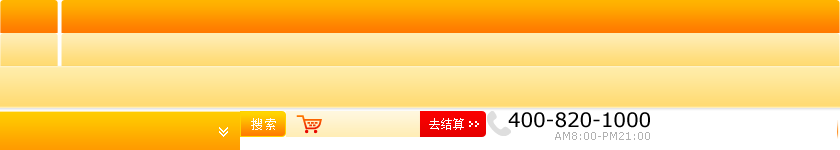
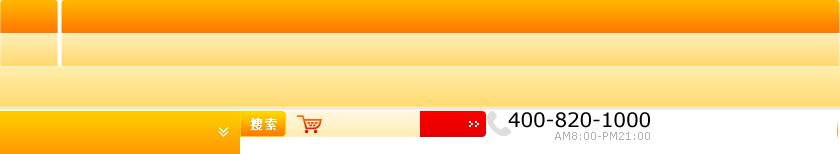
网站头部样式

diff --git a/website/css/base.css b/website/css/base.css
@@ -1,4 +1,4 @@
-body {font: 12px/1.5 tahoma, arial, sans-serif; }
+body {font: 12px/1.5 "Microsoft YaHei", tahoma, arial, sans-serif; }
 
 /*font*/
 h1 {font-size: 16px;}
@@ -90,59 +90,63 @@ input {border: 0 none; vertical-align: middle;}
 .toolbar .toolbar-nav .my-content li a {padding-right: 0;}
 
 /*header*/
-.header {height:94px; position: relative;}
+.header .nav ,.menu ,.header .nav a,.header .nav .current,.header .nav  b,.menu .search .btn-search,.menu .shopcart ,.category .category-hd {background: url("../images/bg_header.png") no-repeat 0 0;}
+.header {height:94px; position: relative; }
 .header .logo {float: left;margin-top:8px;}
 .header .logo a {display: block; width:146px; height: 78px; background: url(../images/logo_header.gif) no-repeat 0 0;}
-.header .nav {float: right; margin-top:62px; width:840px;height:32px;background: url("../images/bg_header.png") no-repeat 0 0; }
+.header .nav {float: right; margin-top:62px; width:840px;height:32px;background-position: 0 0; }
 .header .nav ul {line-height: 32px;}
-.header .nav ul a {text-decoration: none;}
-.header .nav ul li {float: left; _display: inline; position: relative;}
-.header .nav ul li a {display: block; width: 95px; height: 32px; text-align: center; color: #fff; font-size: 13px; font-weight: 700;}
-.header .nav ul li .current, .header .nav ul li:hover {background-image: url("../images/bg_nav.gif"); background-position: -157px -35px; color: #ff7800;}
-.header .nav ul li.home {margin-right: 3px;}
-.header .nav ul li.home a {width: 58px;}
-.header .nav ul li.home .current, .header .nav ul li.home:hover {background-position: 0 -35px;}
-.header .nav ul li.first .current, .header .nav ul li.first:hover {background-position: -61px -35px;}
-.header .nav ul li.last a {width: 97px;}
-.header .nav ul li.last .current, .header .nav ul li.last:hover {background-position: -441px -35px;}
-.header .hotline {position: absolute; right: 0; top: 2px; width: 184px; height: 42px; background: url("../images/banner_hotline.gif") no-repeat 0 0;}
-.header .qq-online {position: absolute; right: 0; top: 38px;}
-.menu {width: 100%; height: 45px; background: url(../images/bg_header.png) repeat-x 0 -66px;}
+.header .nav li {float: left; margin-right:1px;position: relative;}
+.header .nav a {display:inline-block; width:90px;height:32px; text-align: center; color: #fff; font:700 13px/32px "Microsoft YaHei";background-position:right -115px;}
+.header .nav a:hover,.header .nav .current {background-position:-100px -33px;text-decoration: none; color: #ff7800;}
+.header .nav .nav-first a:hover,.header .nav .nav-first .current {background-position: -61px -33px;}
+.header .nav .nav-home a {padding:0;width: 60px;}
+.header .nav .nav-home a:hover,.header .nav .nav-home .current{background-position: 0 -33px;}
+.header .icon-hot,.header .icon-new,.header .icon-flash{ display: block;position: absolute; left:0 ;top: -25px; width: 79px;height: 34px; z-index: 999;background: url("../images/wing.gif") no-repeat scroll 0 0 transparent; }
+.header .icon-new{ left:20px ;top: -5px; width: 21px;height: 14px; background-image: url("../images/new.gif"); }
+.header .icon-flash{ left:10px ;top: -15px; width: 58px;height: 35px;background-image: url("../images/flash_sales/star.gif"); }
+
+.header .hotline {position: absolute; right: 110px; top: 18px; width: 184px; height: 42px; background: url("../images/banner_hotline.gif") no-repeat 0 0;}
+.header .qq-online {position: absolute; right: 0; top:18px;}
+
+/*menu*/
+.menu {width: 100%; height: 45px; background-repeat:repeat-x;background-position: 0 -66px;}
 .menu .wrapper {padding-top: 8px;}
-.menu .search {float: left; _display: inline; padding-left: 250px; width: 512px;}
-.menu .search .search-input {border: #ff7800 1px solid; width: 206px;}
-.menu .search .btn-search {padding-left: 3px; height: 26px; line-height: 26px; background-position: -5px -2px; color: #fff; font-weight: 700; letter-spacing: 2px;}
-.menu .search .search-bd {float: left; _display: inline;}
-.menu .search .hot-keywords {float: left; _display: inline; padding-left: 10px; height: 26px; line-height: 26px; color: #e60000; width: 240px;}
-.menu .search .hot-keywords a {margin-left: 5px; color: #e60000;}
-.menu .shopcart {float: right; position: relative; z-index: 10; padding-left: 40px; width: 170px; height: 30px; line-height: 28px; background: url("../images/bg_shopcart.gif") no-repeat right 0;}
+.menu .search {float: left;padding-left: 260px; width: 525px;}
+.menu .search .search-input {border:1px solid  #ffd100;height:20px; width: 206px;}
+.menu .search .btn-search {width:45px;height:26px;background-position:-241px -111px;color: #fff; letter-spacing: 2px;font: 700 12px/26px "Microsoft YaHei"; text-indent: -9999px;cursor: pointer;}
+.menu .search .search-bd {float: left; }
+.menu .search .hot-keywords {float: left; padding-left: 10px; height: 26px; line-height: 26px; color: #ff7800; width: 240px;}
+.menu .search .hot-keywords a {margin-left: 5px; color: #ff7800;}
+.menu .search .hot-keywords a:hover {color: #e60000;}
+.menu .shopcart {float: right; position: relative; z-index: 10; padding-left: 40px; width: 160px; height: 26px; line-height: 26px; background-position: -286px -111px;}
 .menu .shopcart a {margin-left:5px;color: #e60000; overflow: hidden; zoom: 1;}
 .menu .shopcart em {padding: 0 4px 0 2px; font-style: normal; }
-.menu .shopcart .balance {float: right; _display: inline; display: block; width: 80px; height: 28px;}
-.menu .shopcart .cart-list {position: absolute; right: 3px; top: 28px; border: 2px #f90 solid; padding: 0; background-color: #ffedb5; color: #878787;}
+.menu .shopcart .checkOut {padding-left:14px;width: 60px; height: 26px;color: #fff;font-weight:700;text-decoration: none;}
+.menu .shopcart .cart-list {position: absolute; right: 0; top: 26px; border: 2px #f90 solid; padding: 0; background-color: #ffedb5; color: #878787;}
 .menu .shopcart .cart-list a {color: #878787;}
 .menu .shopcart .cart-list a:hover {color: #e60000;}
-.menu .shopcart .cart-list dl {width: 300px; padding: 5px; border-bottom: 1px dotted #ccc; overflow: hidden; zoom: 1; background: #fff;}
-.menu .shopcart .cart-list dl dt {float: left; _display: inline;}
-.menu .shopcart .cart-list dl dd {float: left; _display: inline;}
+.menu .shopcart .cart-list dl {width: 300px; padding: 5px; border-bottom: 1px dotted #e0e0e0; overflow: hidden; zoom: 1; background: #fff;}
+.menu .shopcart .cart-list dl dt {float: left;}
+.menu .shopcart .cart-list dl dd {float: left;}
 .menu .shopcart .cart-list dl dd.name {width: 180px;}
-.menu .shopcart .cart-list dl dd.action {float: right; _display: inline; color: #e60000; line-height: 1.6;}
+.menu .shopcart .cart-list dl dd.action {float: right; color: #e60000; line-height: 1.6;}
 .menu .shopcart .cart-list dl dd.action span {padding-right: 2px;}
 .menu .shopcart .cart-list dl dd.action .ride {color: #878787;}
 .menu .shopcart .cart-list .amount {text-align: right; padding: 5px; overflow: hidden; zoom: 1; width: 300px;}
 .menu .shopcart .cart-list .amount span {color: #e60000; font-weight: 700;}
-.menu .shopcart .cart-list .amount .btn_m {margin: 0 5px; display: inline; float: right;}
+.menu .shopcart .cart-list .amount .btn_m {float: right;margin: 0 5px; }
 .menu .shopcart .cart-list .amount a {color: #fff; height: auto;}
 .menu .shopcart .cart-list .amount a:hover {color: #ff9;}
 
 /*category*/
-.category {float: left; display: inline; margin-top: -38px; position: relative; z-index: 900;}
-.category .category-hd {width: 240px; height: 36px; background: url("../images/category/category_hd.gif") no-repeat scroll 0 0 transparent; font-size: 14px; line-height: 36px; text-align: center;}
+.category {float: left; display: inline; margin-top: -45px; position: relative; z-index: 900;}
+.category .category-hd {width: 240px; height: 42px; background-position:0 -112px; background-color:#ff7800;font-size: 14px; line-height: 38px; }
 .category .category-hd h2 {font-weight: 700;}
-.category .category-hd h2 a {display: block; width: 240px; height: 36px; color: #ff7800; text-decoration: none;}
-.category .category-bd {position:absolute;top:36px;left:0;z-index:910; padding-top: 5px; border: #ffdd9b 1px solid; border-top: 0 none; width: 238px; height: 943px; background: #fffbe1;}
+.category .category-hd h2 a {display: block;padding-left:46px; color: #fff; text-decoration: none;}
+.category .category-bd {position:absolute;top:42px;left:0;z-index:910; padding-top: 5px; border: #ffdd9b 1px solid; border-top: 0 none; width: 238px; height: 943px; background: #fffbe1;}
 .category .search-quick {position: relative; z-index: 3; height: 30px; cursor: pointer; background: #ffab24 url("../images/category/arrow.gif") no-repeat -6px 2px;}
-.category .search-quick .search-title {color: #fff; font: 800 14px/30px "Microsoft YaHei", "SimHei";}
+.category .search-quick .search-title {color: #fff; font: 800 14px/30px "Microsoft YaHei";}
 .category .search-quick .search-title a {margin-left: 15px; font-size: 12px; color: #fff;}
 .category .search-quick .search-title strong {margin-left: 15px; padding-left: 30px; background: url("../images/category/icon_search.gif") no-repeat 0 -5px;}
 .category .search-quick .search-area {position: absolute; top: 0; left: 238px; z-index: 31; border: 2px #ff7800 solid; padding: 0 10px; width: 210px; background-color: #fff; color: #878787;}
@@ -151,7 +155,7 @@ input {border: 0 none; vertical-align: middle;}
 .category .search-quick .search-area .search-list .field {float: right; _display: inline; width: 180px; line-height: 20px; padding-bottom: 5px; text-align: center;}
 .category .search-quick .search-area .search-list label {float: left; _display: inline; width: 40px;}
 .category .search-quick .search-area .search-list select {float: right; _display: inline; width: 128px;}
-.category .search-quick .search-area .btn-quick {float: right; _display: inline; margin-top: 5px; width: 90px; height: 22px; background: url("../images/category/btn_quick.jpg") no-repeat 0 0; cursor: pointer;}
+.category .search-quick .search-area .btn-quick {float: right;  margin-top: 5px; width: 90px; height: 22px; background: url("../images/category/btn_quick.jpg") no-repeat 0 0; cursor: pointer;}
 .category .item {float: left; _display: inline; position: relative; z-index: 920; margin: 0 2px; width: 234px; display: inline; border-bottom: #fec9a1 1px solid;}
 .category .item a {color: #000;}
 .category .item a:hover {color: #ff7800;}

diff --git a/website/flash_sales.html b/website/flash_sales.html
@@ -51,12 +51,14 @@
     </div>
     <div class="nav">
         <ul>
-            <li class="home"><a href="#" class="current">首页</a></li>
-            <li class="first"><a href="#" target="_blank">准妈妈豪礼</a><span class="icon-hot"></span></li>
-            <li><a href="#" target="_blank">孕妈新生儿</a><span class="icon-new"></span></li>
-            <li><a href="#" target="_blank">会员专享</a></li>
-            <li><a href="#" target="_blank">清仓甩卖</a></li>
-            <li class="last"><a href="#" target="_blank">推荐品牌</a></li>
+            <li class="nav-home"><a href="#" >首页</a></li>
+            <li class="nav-first nav-mamagift"><a href="#" target="_blank">准妈妈豪礼</a><span class="icon-hot"></span></li>
+            <li class="nav-flashSales"><a href="#" target="_blank" class="current">闪购</a><span class="icon-flash"></span></li>
+            <li class="nav-phland"><a href="#" target="_blank">丽婴房馆</a></li>
+            <li class="nav-baby"><a href="#" target="_blank">孕妈新生儿</a><span class="icon-new"></span></li>
+            <li class="nav-vip"><a href="#" target="_blank">会员专享</a></li>
+            <li class="nav-clearance"><a href="#" target="_blank">清仓甩卖</a></li>
+            <li class="nav-last nav-brand"><a href="#" target="_blank">推荐品牌</a></li>
         </ul>
     </div>
     <div class="hotline">
@@ -66,8 +68,8 @@
         <script charset="utf-8" type="text/javascript"
                 src="http://static.b.qq.com/account/bizqq/js/wpa.js?wty=1&type=1&kfuin=4008201000&ws=www.muyingzhijia.com&title=%E5%9C%A8%E7%BA%BF%E5%AE%A2%E6%9C%8D&btn1=%E4%BC%81%E4%B8%9AQQ%E4%BA%A4%E8%B0%88&fsty=0&fposX=0&fposY=1&csty=7&tx=1&aty=0&a=&key=%01hPa%036SnRd%03eSbR%3B%03c%040TmR%3CTg%01o%5C%3A%0Ao%5C3QfPfSo"></script>
         <!-- WPA Button END --></div>
-</div><!--header end-->
-
+</div>
+<!--header end-->
 <div class="menu">
     <div class="wrapper">
         <div id="topSearch" class="search">
@@ -76,7 +78,7 @@
                     <label for="txSearchCondition" class="hide">搜索</label><input type="text" name="txSearchCondition"
                                                                                  id="txSearchCondition"
                                                                                  class="text-input search-input"/><input
-                        type="button" id="btnSearch" class="btn_m btn_m_r btn-search" value="搜索"/>
+                        type="button" id="btnSearch" class="btn-search" value="搜索"/>
                 </form>
             </div>
             <div class="hot-keywords">
@@ -85,7 +87,7 @@
         </div>
 
         <div class="shopcart">
-            <span id="cartInfo" class="fl"><a href="">购物车<em id="saleQty" class="fb">600</em>件</a></span>
+            <span id="cartInfo" ><a href="">购物车<em id="saleQty" class="fb">600</em>件</a><a href="http://www.muyingzhijia.com/CheckOut/ShoppingCart.aspx" class="checkOut">去结算&nbsp;</a></span>
 
             <div id="cartList" class="hide cart-list">
                 <dl>
@@ -94,7 +96,6 @@
                     <dd class="name"><a href="">喜多倍护润肤霜60G</a></dd>
                     <dd class="action"><p><span class="rmb">¥</span><span class="price">14.50</span><span
                             class="ride">x</span>1</p>
-
                         <p><a onclick="javascript:DeleteShopCart(5067077)" href="javascript:void(0);">[删除]</a></p></dd>
                 </dl>
                 <dl>
@@ -107,15 +108,13 @@
                         <p><a onclick="javascript:DeleteShopCart(5067077)" href="javascript:void(0);">[删除]</a></p></dd>
                 </dl>
                 <div class="amount">
-                    共<span id="cartNum">2</span>件商品，总计：<span id="cartAmount">¥29.00</span><span class="btn_m btn_m_r"><a
-                        title="去购物车结算" href="">立即结算</a></span>
+                    共<span id="cartNum">2</span>件商品，总计：<span id="cartAmount">¥29.00</span><span class="btn_m btn_m_r"><a href="" id="j_balance" title="去购物车结算" >立即结算</a></span>
                 </div>
             </div>
-            <a href="#" class="balance"><span class="hide">去结算</span></a>
         </div>
     </div>
-</div><!--menu end-->
-
+</div>
+<!--menu end-->
 <div class="wrapper">
     <div id="category-container" class="category">
         <div class="category-hd">

diff --git a/website/index.html b/website/index.html
@@ -57,12 +57,14 @@
     </div>
     <div class="nav">
         <ul>
-            <li class="home"><a href="#" class="current">首页</a></li>
-            <li class="first"><a href="#" target="_blank">准妈妈豪礼</a><span class="icon-hot"></span></li>
-            <li><a href="#" target="_blank">孕妈新生儿</a><span class="icon-new"></span></li>
-            <li><a href="#" target="_blank">会员专享</a></li>
-            <li><a href="#" target="_blank">清仓甩卖</a></li>
-            <li class="last"><a href="#" target="_blank">推荐品牌</a></li>
+            <li class="nav-home"><a href="#" >首页</a></li>
+            <li class="nav-first nav-mamagift"><a href="#" target="_blank">准妈妈豪礼</a><span class="icon-hot"></span></li>
+            <li class="nav-flashSales"><a href="#" target="_blank" class="current">闪购</a><span class="icon-flash"></span></li>
+            <li class="nav-phland"><a href="#" target="_blank">丽婴房馆</a></li>
+            <li class="nav-baby"><a href="#" target="_blank">孕妈新生儿</a><span class="icon-new"></span></li>
+            <li class="nav-vip"><a href="#" target="_blank">会员专享</a></li>
+            <li class="nav-clearance"><a href="#" target="_blank">清仓甩卖</a></li>
+            <li class="nav-last nav-brand"><a href="#" target="_blank">推荐品牌</a></li>
         </ul>
     </div>
     <div class="hotline">
@@ -72,8 +74,8 @@
         <script charset="utf-8" type="text/javascript"
                 src="http://static.b.qq.com/account/bizqq/js/wpa.js?wty=1&type=1&kfuin=4008201000&ws=www.muyingzhijia.com&title=%E5%9C%A8%E7%BA%BF%E5%AE%A2%E6%9C%8D&btn1=%E4%BC%81%E4%B8%9AQQ%E4%BA%A4%E8%B0%88&fsty=0&fposX=0&fposY=1&csty=7&tx=1&aty=0&a=&key=%01hPa%036SnRd%03eSbR%3B%03c%040TmR%3CTg%01o%5C%3A%0Ao%5C3QfPfSo"></script>
         <!-- WPA Button END --></div>
-</div><!--header end-->
-
+</div>
+<!--header end-->
 <div class="menu">
     <div class="wrapper">
         <div id="topSearch" class="search">
@@ -82,7 +84,7 @@
                     <label for="txSearchCondition" class="hide">搜索</label><input type="text" name="txSearchCondition"
                                                                                  id="txSearchCondition"
                                                                                  class="text-input search-input"/><input
-                        type="button" id="btnSearch" class="btn_m btn_m_r btn-search" value="搜索"/>
+                        type="button" id="btnSearch" class="btn-search" value="搜索"/>
                 </form>
             </div>
             <div class="hot-keywords">
@@ -91,7 +93,7 @@
         </div>
 
         <div class="shopcart">
-            <span id="cartInfo" class="fl"><a href="">购物车<em id="saleQty" class="fb">600</em>件</a></span>
+            <span id="cartInfo" ><a href="">购物车<em id="saleQty" class="fb">600</em>件</a><a href="http://www.muyingzhijia.com/CheckOut/ShoppingCart.aspx" class="checkOut">去结算&nbsp;</a></span>
 
             <div id="cartList" class="hide cart-list">
                 <dl>
@@ -100,7 +102,6 @@
                     <dd class="name"><a href="">喜多倍护润肤霜60G</a></dd>
                     <dd class="action"><p><span class="rmb">¥</span><span class="price">14.50</span><span
                             class="ride">x</span>1</p>
-
                         <p><a onclick="javascript:DeleteShopCart(5067077)" href="javascript:void(0);">[删除]</a></p></dd>
                 </dl>
                 <dl>
@@ -113,11 +114,9 @@
                         <p><a onclick="javascript:DeleteShopCart(5067077)" href="javascript:void(0);">[删除]</a></p></dd>
                 </dl>
                 <div class="amount">
-                    共<span id="cartNum">2</span>件商品，总计：<span id="cartAmount">¥29.00</span><span class="btn_m btn_m_r"><a
-                        title="去购物车结算" href="">立即结算</a></span>
+                    共<span id="cartNum">2</span>件商品，总计：<span id="cartAmount">¥29.00</span><span class="btn_m btn_m_r"><a href="" id="j_balance" title="去购物车结算" >立即结算</a></span>
                 </div>
             </div>
-            <a href="#" class="balance"><span class="hide">去结算</span></a>
         </div>
     </div>
 </div>

diff --git a/website/flash_sales_detail.html b/website/flash_sales_detail.html
@@ -52,12 +52,14 @@
     </div>
     <div class="nav">
         <ul>
-            <li class="home"><a href="#" class="current">首页</a></li>
-            <li class="first"><a href="#" target="_blank">准妈妈豪礼</a><span class="icon-hot"></span></li>
-            <li><a href="#" target="_blank">孕妈新生儿</a><span class="icon-new"></span></li>
-            <li><a href="#" target="_blank">会员专享</a></li>
-            <li><a href="#" target="_blank">清仓甩卖</a></li>
-            <li class="last"><a href="#" target="_blank">推荐品牌</a></li>
+            <li class="nav-home"><a href="#" >首页</a></li>
+            <li class="nav-first nav-mamagift"><a href="#" target="_blank">准妈妈豪礼</a><span class="icon-hot"></span></li>
+            <li class="nav-flashSales"><a href="#" target="_blank" class="current">闪购</a><span class="icon-flash"></span></li>
+            <li class="nav-phland"><a href="#" target="_blank">丽婴房馆</a></li>
+            <li class="nav-baby"><a href="#" target="_blank">孕妈新生儿</a><span class="icon-new"></span></li>
+            <li class="nav-vip"><a href="#" target="_blank">会员专享</a></li>
+            <li class="nav-clearance"><a href="#" target="_blank">清仓甩卖</a></li>
+            <li class="nav-last nav-brand"><a href="#" target="_blank">推荐品牌</a></li>
         </ul>
     </div>
     <div class="hotline">
@@ -69,25 +71,21 @@
         <!-- WPA Button END --></div>
 </div>
 <!--header end-->
-
 <div class="menu">
     <div class="wrapper">
         <div id="topSearch" class="search">
             <div class="search-bd">
                 <form action="" name="search">
-                    <label for="txSearchCondition" class="hide">搜索</label><input type="text" name="txSearchCondition"
-                                                                                 id="txSearchCondition"
-                                                                                 class="text-input search-input"/><input
-                        type="button" id="btnSearch" class="btn_m btn_m_r btn-search" value="搜索"/>
+                    <label for="txSearchCondition" class="hide">搜索</label><input type="text" name="txSearchCondition"  id="txSearchCondition" class="text-input search-input"/><input
+                        type="button" id="btnSearch" class="btn-search" value="搜索"/>
                 </form>
             </div>
             <div class="hot-keywords">
                 热门搜索：<a href="#">帮宝适</a><a href="#">奶粉</a><a href="#">湿巾</a>
             </div>
         </div>
-
         <div class="shopcart">
-            <span id="cartInfo" class="fl"><a href="">购物车<em id="saleQty" class="fb">600</em>件</a></span>
+            <span id="cartInfo" ><a href="">购物车<em id="saleQty" class="fb">600</em>件</a><a href="http://www.muyingzhijia.com/CheckOut/ShoppingCart.aspx" class="checkOut">去结算&nbsp;</a></span>
 
             <div id="cartList" class="hide cart-list">
                 <dl>
@@ -96,7 +94,6 @@
                     <dd class="name"><a href="">喜多倍护润肤霜60G</a></dd>
                     <dd class="action"><p><span class="rmb">¥</span><span class="price">14.50</span><span
                             class="ride">x</span>1</p>
-
                         <p><a onclick="javascript:DeleteShopCart(5067077)" href="javascript:void(0);">[删除]</a></p></dd>
                 </dl>
                 <dl>
@@ -109,11 +106,9 @@
                         <p><a onclick="javascript:DeleteShopCart(5067077)" href="javascript:void(0);">[删除]</a></p></dd>
                 </dl>
                 <div class="amount">
-                    共<span id="cartNum">2</span>件商品，总计：<span id="cartAmount">¥29.00</span><span class="btn_m btn_m_r"><a
-                        title="去购物车结算" href="">立即结算</a></span>
+                    共<span id="cartNum">2</span>件商品，总计：<span id="cartAmount">¥29.00</span><span class="btn_m btn_m_r"><a href="" id="j_balance" title="去购物车结算" >立即结算</a></span>
                 </div>
             </div>
-            <a href="#" class="balance"><span class="hide">去结算</span></a>
         </div>
     </div>
 </div>

diff --git a/website/css/flash_sales.css b/website/css/flash_sales.css
@@ -1,4 +1,4 @@
-.flash-sales {margin-top: -2px; padding-bottom: 40px;overflow:hidden;background-color: #f4f4f4; font-family: "Microsoft YaHei"; color: #1a1a1a;}
+.flash-sales {margin-top: -3px; padding-bottom: 40px;overflow:hidden;background-color: #f4f4f4; font-family: "Microsoft YaHei"; color: #1a1a1a;}
 .flash-sales .more-brand,.flash-sales .price-box,.flash-sales .time-box .icon, .flash-sales .item-img .corner, .fs-detail-list .corner ,.advance-week span,.commitment-box .icon, .popup-bar .btn-gotop span,.fs-compositor .sort-field span{background: url("../images/flash_sales/bg_flash_sales.png") no-repeat scroll 0 0 transparent;}
 .flash-sales .title-main {padding: 10px;height: 20px; line-height: 20px;background-color: #fff; box-shadow: 0 0 1px #e0e0e0; }
 .flash-sales .title-main h2 {float:left; font-size: 20px;}
